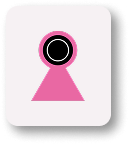
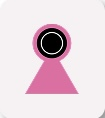
imgs gaming theme changed

diff --git a/src/styles/components/_card.scss b/src/styles/components/_card.scss
@@ -2,7 +2,6 @@
 @use '../abstracts/mixins' as m;
 
 .card {
-  // --- BASE LAYOUT ---
   background: none; 
   border: none; 
   padding: 0;
@@ -31,32 +30,16 @@
     pointer-events: none;
   }
 
-  // --- THEME-SPECIFIC CARD STYLES ---
-
   .theme-gaming & {
-    
-
-    &__face {
-      // LÜCKE: Pinker Verlauf, Box-Shadow für 3D-Look, Border-Radius
-    }
-  }
-
-  .theme-foods & {
-    &__face {
-      // LÜCKE: Foods Farben, vielleicht weichere Ecken
-    }
-  }
-
-  .theme-code-vibes & {
-    &__face {
-      background-color: #4DD5BC;
-      border-radius: f.rem(4);
+    &__face, &__inner {
+      border-radius: f.rem(20);
     }
   }
 
   // --- FACE STRUCTURE ---
   &__face {
-    position: absolute; inset: 0;
+    position: absolute; 
+    inset: 0;
     width: 100%; 
     height: 100%;
     backface-visibility: hidden;

diff --git a/src/main.ts b/src/main.ts
@@ -181,10 +181,10 @@ function handleMatch() {
   flippedCards = [];
   updateUI();
 
-//   if (matchedPairs === currentSize / 2) {
-//    setTimeout(handleGameOver, 600);
-//   }
-   if (matchedPairs >= 1) handleGameOver();
+  if (matchedPairs === currentSize / 2) {
+   setTimeout(handleGameOver, 600);
+  }
+   //if (matchedPairs >= 1) handleGameOver();
 }
 
 

diff --git a/src/styles/pages/_game.scss b/src/styles/pages/_game.scss
@@ -24,10 +24,6 @@
       background-color: #294F60; 
       color: white; 
 
-    .game-board {
-      gap: 0;
-    }
-
     .game-page__header {
       background-color: #FD96C933;
       padding: f.rem(20);
